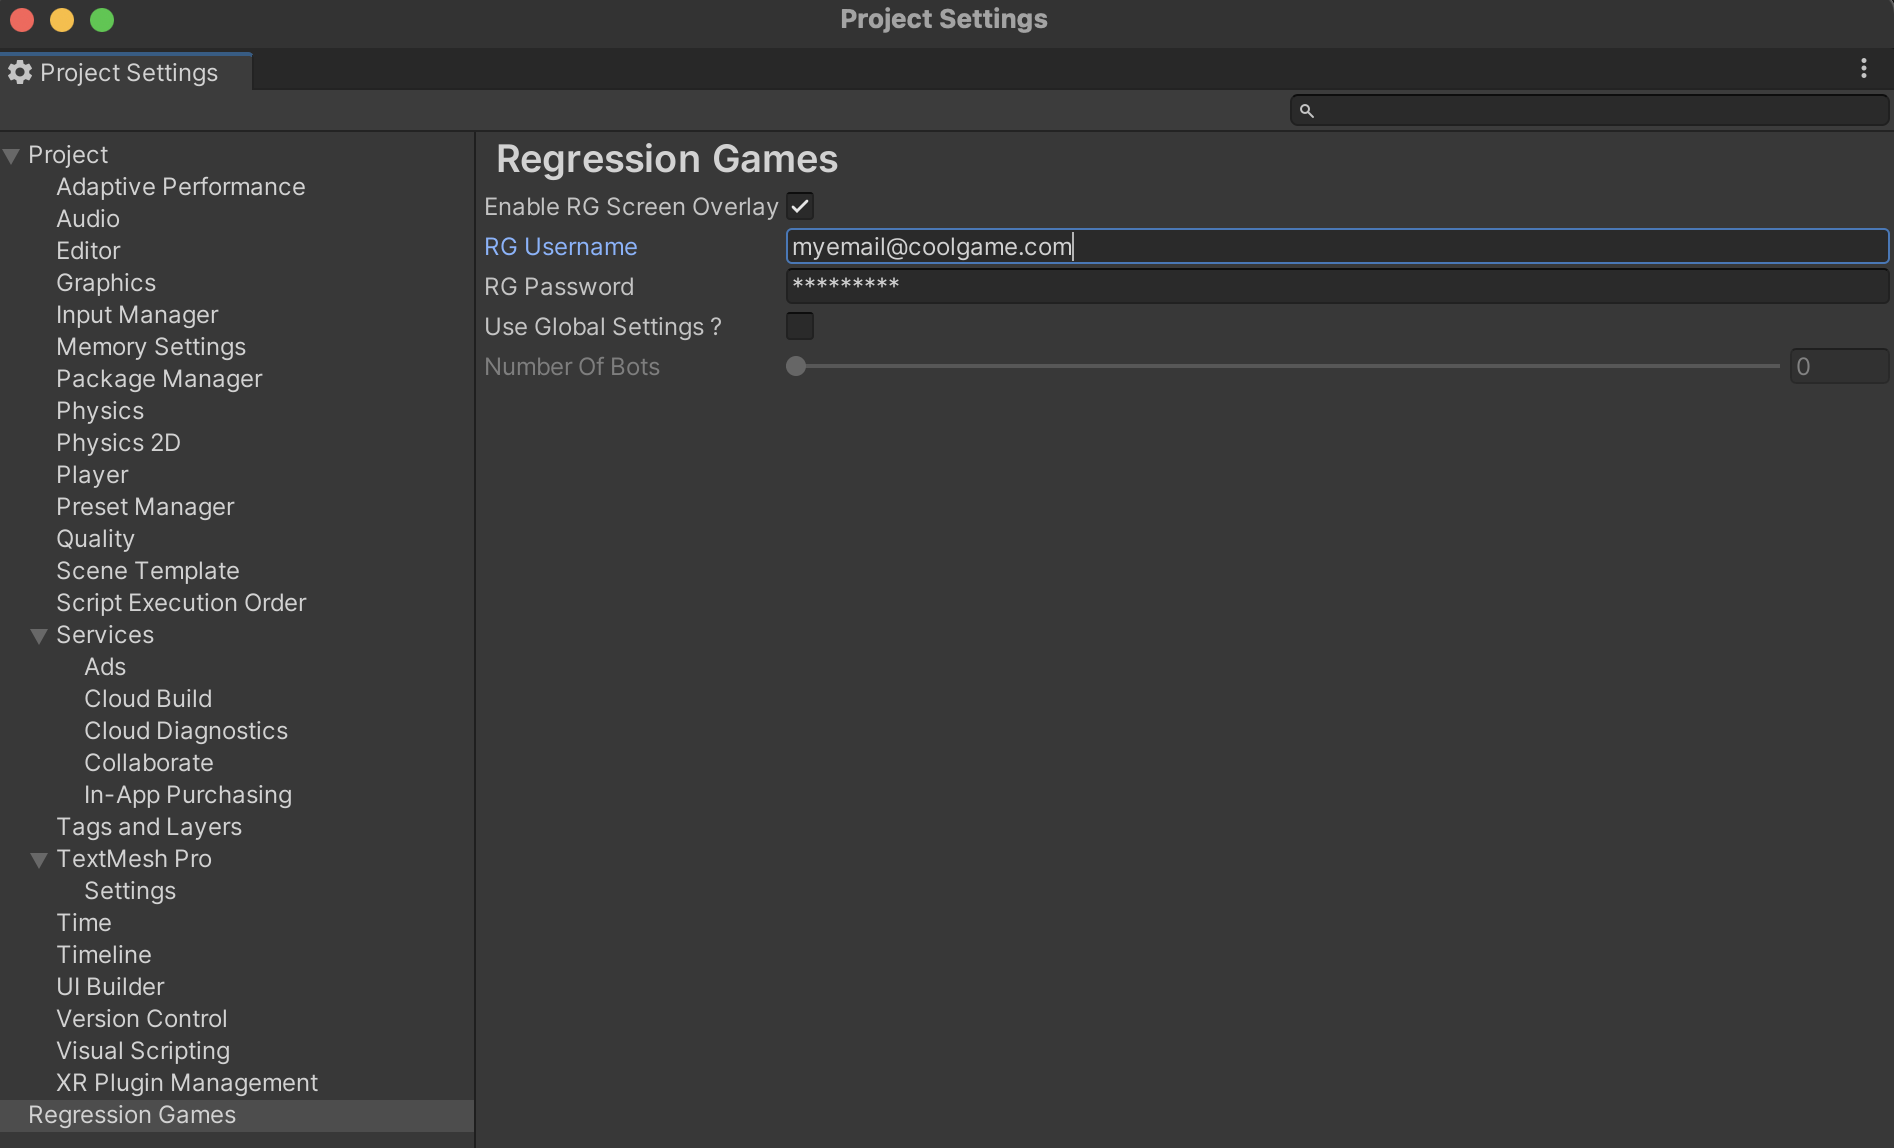
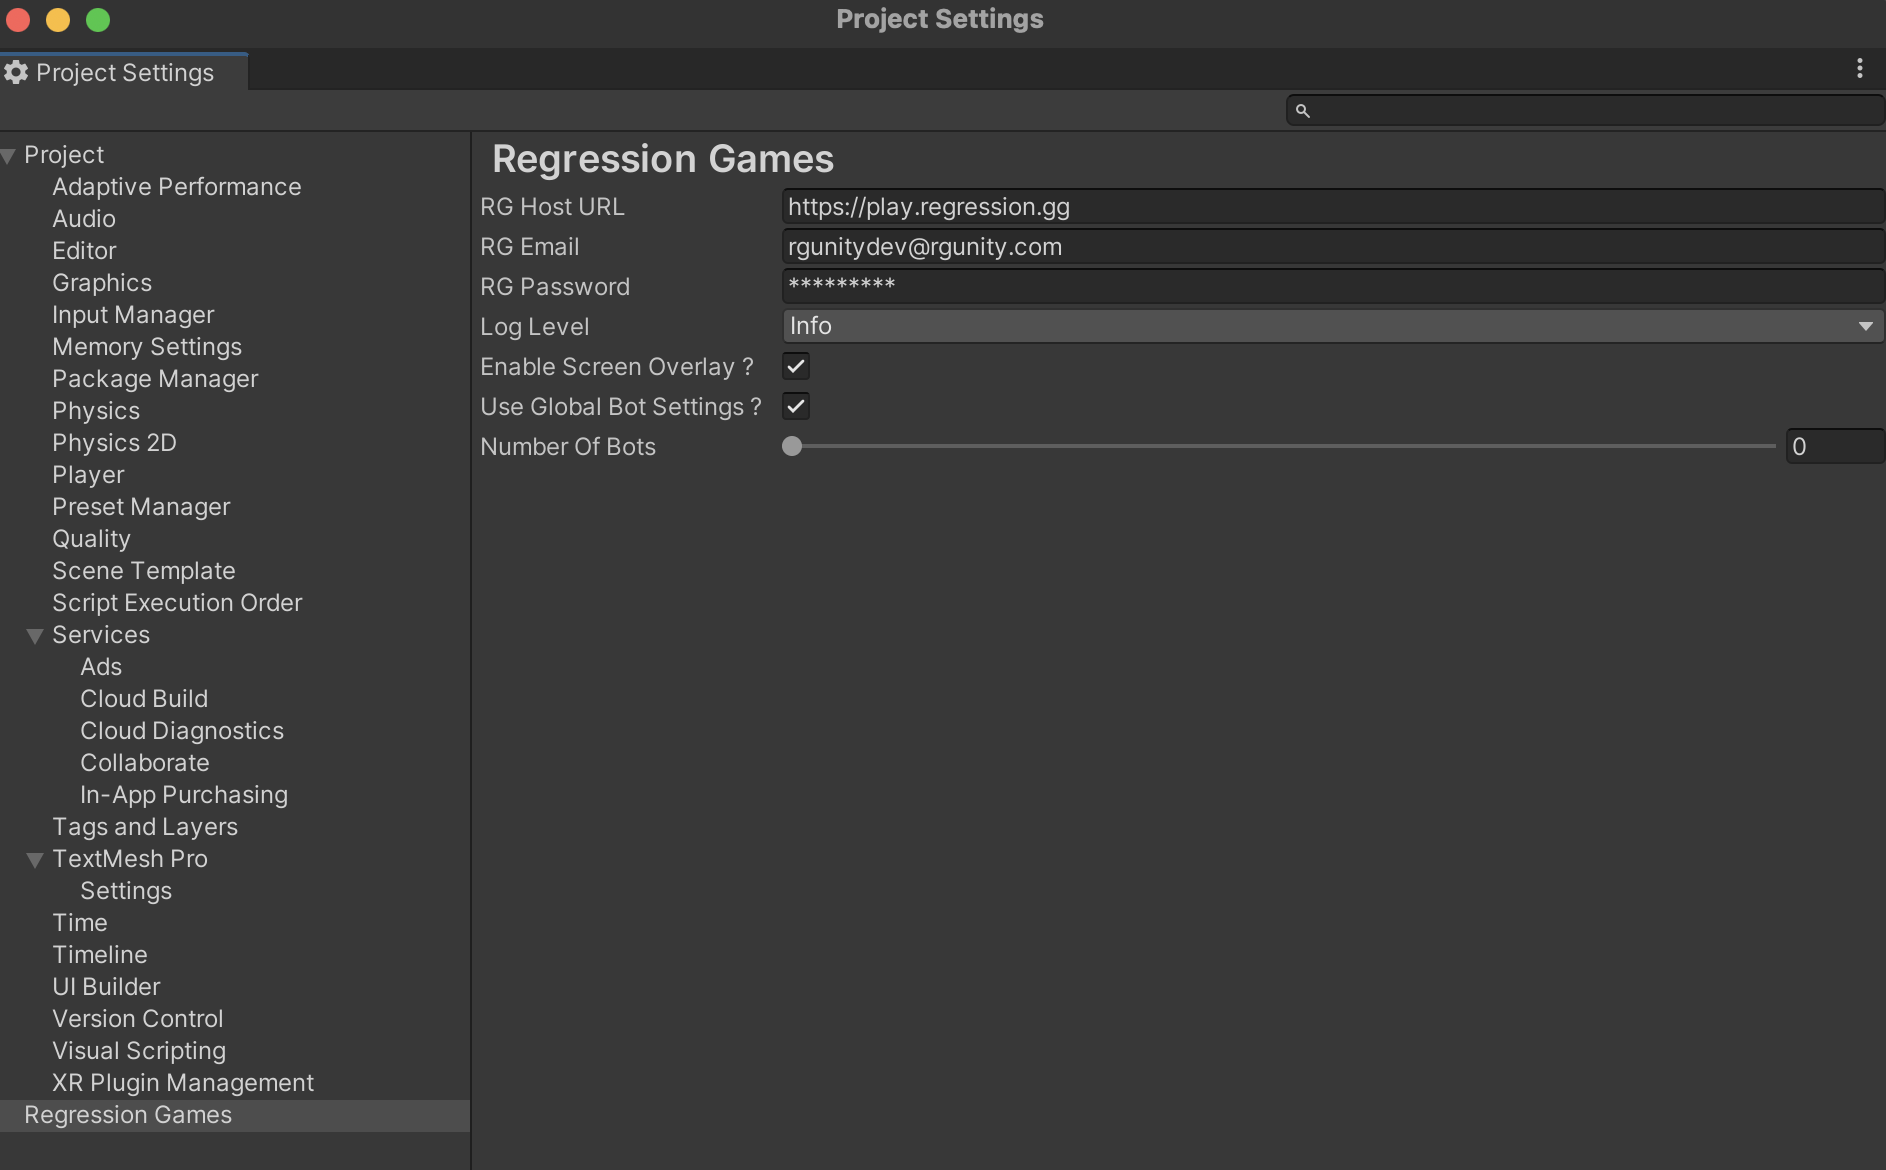
Fix suggestions from UAT

diff --git a/sidebars.js b/sidebars.js
@@ -71,6 +71,8 @@ const sidebars = {
             'studios/unity/unity-sdk/overview', 
             'studios/unity/unity-sdk/RGBotSpawnManager',
             'studios/unity/unity-sdk/BotInformation',
+            'studios/unity/unity-sdk/RGState',
+            'studios/unity/unity-sdk/RGAction',
             {
               type: 'category',
               label: 'Creating Bots in JavaScript',

diff --git a/docs/studios/unity/tutorials/first_tutorial.md b/docs/studios/unity/tutorials/first_tutorial.md
@@ -12,6 +12,12 @@ info@regression.gg
 
 :::
 
+:::info
+
+This tutorial assumes a basic understanding of Unity concepts.
+
+:::
+
 In this tutorial, we will get a simple game up and running where a character (represented by a green cube) needs to collect
 power ups (represented by blue spheres). We will cover:
 
@@ -31,12 +37,14 @@ be able to pull and live reload bots through GitHub repositories.
 You will also be prompted to enter a Minecraft username - you can put anything for this field (it will be removed
 soon as part of our new studio-centric experience).
 
-## Download the sample scene
+## Download the sample game
 
 We have a sample project that you can play around with to get started. Download that project 
 [here](https://github.com/Regression-Games/RGUnitySample/tree/starter) or clone it using GitHub. **Make sure to
 download or clone the `starter` branch**, which serves as the starting point for this tutorial. For
 the completed tutorial, see the `main` branch.
+
+Run the following commands in your terminal to start:
 
 ```
 git clone git@github.com:Regression-Games/RGUnitySample.git
@@ -44,17 +52,29 @@ cd RGUnitySample
 git checkout starter
 ```
 
-This scene features a prefab for a character and a power up type, as well as three scripts; one for controlling 
+Once this is cloned, download **Unity version 2021.3.24f1** (visit the [Unity archive](https://unity.com/releases/editor/archive
+if you can't find that version). Open the cloned project in this Unity version. 
+
+Once the project is loaded, open the scene at **Assets > Scenes > SampleScene**. This scene features a prefab 
+for a character and a power up type, as well as three scripts; one for controlling 
 the game loop, one for controlling the character, and one for controlling the power up logic.
 
 ## Import the Regression Games Unity Bots package
 
 Our package is available via GitHub [here](https://github.com/Regression-Games/RGUnityBots). Clone or download the repository, 
-and import the package by clicking **Add package from disk** in the **Package Manager** window.  
+and import the package by clicking **Add package from disk** in the **Package Manager** window (this window can be opened
+in the **Window > Package Manager** menu ). 
 - Note that this package utilizes TextMeshPro.  If you are prompted by Unity to add TextMeshPro assets to your project, please add them.
 - Note that this package installs a dependency of Newtonsoft Json (https://docs.unity3d.com/Packages/com.unity.nuget.newtonsoft-json@3.1/manual/index.html) for serializing/deserializing Json message payloads.
 
 ![Screenshot of the package imported into the project](first_bot_tutorial_images/tutorial_1_package.png)
+
+You can also download the project directly by clicking the plug button and the **Add package from git URL** option, and
+pasting in the following URL.
+
+```
+git@github.com:Regression-Games/RGUnityBots.git
+```
 
 ## Restart Unity and your IDE
 
@@ -65,6 +85,12 @@ After installing the Regression Games Unity Bots package and its dependencies in
 After importing the Regression Games package, you can access the settings pane to input your email and password.
 This will allow your project to access and start your bots. Access this setting page by going to **Edit** >
 **Project Settings** > **Regression Games**.
+
+Enter the following information:
+
+* **RG Host URL:** `https://play.regression.gg`
+* **RG Email:** `<your email>`
+* wdwa**RG Password:** `<your password>`
 
 ![Screenshot of the settings page.](first_bot_tutorial_images/tutorial_2_settings.png)
 
@@ -81,7 +107,7 @@ this into each scene - the SDK will ensure that only one instance is present.
 
 :::
 
-You can find this prefab by searching in the project file window for `RGOverlayCanvas` within the Packages filter,
+You can find this prefab by searching in the project file window for `RGOverlayCanvas` (make sure the "In Packages" filter is selected),
 or by navigating to the **Packages** > **Regression Games Unity Bots** > **Runtime** > **Prefabs** folder.
 
 ![Screenshot of the search pane for the RGOverlayCanvas.](first_bot_tutorial_images/tutorial_3_RGOverlay1.png)
@@ -89,8 +115,6 @@ or by navigating to the **Packages** > **Regression Games Unity Bots** > **Runti
 Drag this overlay onto your scene. Once you have this overlay available, you can click play to see this in action! A
 Regression Games logo will appear at the bottom of your screen. Click this button to see a dropdown for your bots. You
 likely will not have any bots yet - that's alright, we will make one soon!
-
-![Screenshot of the RGOverlayCanvas.](first_bot_tutorial_images/tutorial_4_RGOverlay2.png)
 
 :::info
 
@@ -100,27 +124,31 @@ _You only need to do this if you plan on interacting with the canvas_.
 
 :::
 
+![Screenshot of the RGOverlayCanvas.](first_bot_tutorial_images/tutorial_4_RGOverlay2.png)
 
 ## Implement the RGBotSpawnManager
 
 The RGBotSpawnManager is the primary point of configuration for how your bots are spawned into the game. This component
 provides a few methods that can be overridden to control how bots are spawned into the scene, how they are seated into
-your game logic before spawning, how they are destroyed, etc... For this particular tutorial, we will define the two
-methods that must be implemented - `GetBotPrefab()` and `GetBotSpawn()`. These two methods define what prefab should be
-used to control the character, and where the character should be spawned.
+your game logic before spawning, how they are destroyed, etc... For this particular tutorial, we need to define one
+method, [`SpawnBot()`](/studios/unity/unity-sdk/RGBotSpawnManager#public-virtual-void-seatbotbotinformation-bottospawn). 
+This method will define how our bot prefab is spawned into the scene.
 
-First, create a new file called `CharacterBotSpawnManager.cs`. It's best practice to put all Regression Games scripts
-into a common directory (we put ours in an `RGScripts/` folder).
+First, create an `RGScripts/` folder in your `Assets` folder. Then, create a file called `CharacterBotSpawnManager.cs`.
+Double click that file to open it within your editor of choice (we recommend Rider or Visual Studio). We highly recommend
+that the file is opened as part of the solution / project as a whole, so that code completion is available.
 
 Copy and paste the follow code into this file. This component allows us to drag and drop a prefab for our bots and
 a spawn point directly within our editor, and informs our SDK of these via those overridden functions.
 
-See the [full reference](#) for all the ways you can modify the spawning of bots. Sometimes you may need to add this
+See the [full reference](/studios/unity/unity-sdk/RGBotSpawnManager) for all the ways you can modify 
+the spawning of bots. Sometimes you may need to add this
 bot to a multiplayer network protocol, configure information like the character type, or define special start logic.
 This can all be done through the interface provided by `RGBotSpawnManager`.
 
 ```cs
 using RegressionGames;
+using RegressionGames.Types;
 using UnityEngine;
 
 public class CharacterBotSpawnManager : RGBotSpawnManager
@@ -134,38 +162,44 @@ public class CharacterBotSpawnManager : RGBotSpawnManager
     [Tooltip("Spawn point for RG Bots")]
     private Transform botSpawnPoint;
 
-    public override GameObject GetBotPrefab()
+    public override GameObject SpawnBot(bool lateJoin, BotInformation botInformation)
     {
-        return rgBotPrefab;
-    }
+        Debug.Log("Spawning SAMPLE BOT");
+        var bot = Instantiate(rgBotPrefab, Vector3.zero, Quaternion.identity);
+        bot.transform.position = botSpawnPoint.position;
 
-    public override Transform GetBotSpawn()
-    {
-        return botSpawnPoint;
+        // We will add more code here later to configure the bot further 
+
+        return bot;
     }
 
 }
 ```
 
-Once this component is implemented, create an empty object within the scene, and attach this component to that object. Then,
-create another empty object and position it within the scene above the platform, and drag that game object into the **Bot Spawn Point** entry. Finally, find the **Player** prefab provided by the sample project (located within **Assets** > **Prefabs**), and
-drag this into the **Rg Bot Prefab** entry. Regression Games now knows how to load and unload bots from your scene!
+Once this component is implemented, create an empty object within the scene, rename it to `RGBotSpawner` (just so we can find it later),
+and attach this `CharacterBotSpawnManager` component to that object. Then, create another empty object, rename it to `CharacterSpawn`,
+position it within the scene above the platform, and drag that game object into the **Bot Spawn Point** entry of the RGBotSpawner's
+`CharacterBotSpawnManager` component. Finally, find the **Player** prefab provided by the sample project (located within **Assets** > **Prefabs**), and drag this into the **Rg Bot Prefab** entry. Regression Games now knows how to load and unload bots from your scene!
+Make sure to save the scene.
 
 ![Screenshot of the RGOverlayCanvas.](first_bot_tutorial_images/tutorial_5_spawner.png)
 
 ## Add state information to relevant GameObjects
 
-The next step is to indicate what state in your scene is available to bots. This state is then used by bots to
-make decisions on what actions to take. State is relayed to bots by attaching `RGState` components to any game
-object or prefab that you want your bots to know about. 
+The next step is to indicate what state in your scene is available to bots. This state used by bots to
+make decisions on what actions to take. State is relayed to bots by attaching [`RGState`](/studios/unity/unity-sdk/RGState)
+components to any game object or prefab that you want your bots to know about. 
 
-The base implementation of `RGState` provided by Regression Games relays default information such as a `type`, `position`,
-and a unique identifier. In this sample scene, we will use this default state information, but of course you may need
-to provide additional state, such as a players team, health, if a door is open, etc...
+The base implementation of [`RGState`](/studios/unity/unity-sdk/RGState) provided by Regression Games relays default 
+information such as a `type`, `position`, and a unique identifier. In this sample scene, we will use this default 
+state information, but of course you may need to provide additional state, such as a players team, health, if a door is open, etc...
+You can do this by checking out the docs and examples for [`RGState.GetState()`](/studios/unity/unity-sdk/RGState#public-virtual-dictionarystring-object-getstate).
 
-In this scene, we open the `Player` and `PowerUp` prefabs, and add a component, searching for "RG State". Once that
-component is added to the prefab, change the `Object Type` to `PowerUp` for the PowerUp, and change it to `Player`
-for the player. Make sure to save the changes you make to these existing prefabs by clicking **Save**!
+In this scene, open the `Player` prefab located in the **Assets > Prefabs** folder by double clicking
+the prefab, click **Add Component**, and then add the `RGState` component by searching for "RG State" in the component
+search modal that pops up. Once that component is added to the prefab, change the `Object Type` to `Player`. 
+Make sure to save the changes you make to these existing prefabs by clicking **Save**! Repeat this process for
+the `PowerUp` prefab, but change the `Object Type` to `PowerUp`.
 
 ![Screenshot of the prefab with a RG State script.](first_bot_tutorial_images/tutorial_6_prefab.png)
 
@@ -174,7 +208,7 @@ That's all you need to do for your bot to see the state of the game!
 ## Implement actions your bot can take
 
 Finally, we need to provide an interface that allows bots to control these characters in your game. This is
-done using the RGAction interface. 
+done using the [`RGAction`](/studios/unity/unity-sdk/RGAction) interface. 
 
 ```cs
 /**
@@ -200,9 +234,13 @@ public abstract class RGAction : MonoBehaviour
 }
 ```
 
-Create a new file called `RGPlayerMoveAction.cs`, and copy the following code into that file.
+Create a new file called `RGPlayerMoveAction.cs` within the `RGScripts/` folder, and copy the following code into that file.
 
 ```cs
+using System.Collections.Generic;
+using RegressionGames.RGBotConfigs;
+using UnityEngine;
+
 public class RGPlayerMoveAction : RGAction
 {
     
@@ -247,20 +285,20 @@ public class RGPlayerMoveAction : RGAction
 }
 ```
 
-You can think of an `RGAction` as a task that you bot should run. In this case, we define a move task, which
-tells the bot to move to a location until they are in range of the target location. Because `RGAction` is a
-MonoBehaviour, `Awake()` and `Update()` methods are implemented that run the logic for this type of action.
+You can think of [`RGAction`](/studios/unity/unity-sdk/RGAction) as a task that your bot can run. In this case, 
+we define a move action, which tells the bot to move to a location until they are in range of the target location. 
+Because [`RGAction`](/studios/unity/unity-sdk/RGAction) is a MonoBehaviour, `Awake()` and `Update()` methods are 
+implemented that run the logic for this type of action. An action can triggered by a Regression Games bot, and the
+action script can execute the logic to perform that action.
 
-Name the action as `"MoveToPosition"`, implemented within `GetActionName()`, which is the identifier that will be used
-when writing the bot. Next, implement `StartAction()`, which takes in the arguments passed by the bot to perform
-this action. In this specific case, the bot passes an x, y, and z value, which is the position of the target that the
+`GetActionName()` defines this action with a name of `"MoveToPosition"`, which is the identifier that will be used
+when writing the bot. `StartAction()` takes in the arguments passed by the bot that define how the action will run,
+and stores this information within the component. These arguments are not used to execute logic right away, but rather
+allows the `Update()` function to run the logic over time (as most actions will need more than one tick to run).
+In this specific case, the bot passes an x, y, and z value, which is the position of the target that the
 bot should approach.
 
-The `Update()` function implements the logic to move towards that position. If the target position is
-set, and the bot is not within a specific range, then propel the RigidBody in that direction. If the target is
-reached, then reset the target to nothing.
-
-Add this new `RGPlayerMoveAction` component onto the Player prefab. 
+**Add this new `RGPlayerMoveAction` component onto the Player prefab,** and make sure to click save.
 
 Finally, search for and add the `RGAgent` script to the Player prefab - this tells Regression Games to find all `RGAction`s on this 
 prefab and register them with the agent, and informs Regression Games that this prefab will act as an agent.
@@ -270,7 +308,8 @@ prefab and register them with the agent, and informs Regression Games that this 
 ## Activate and start Regression Games in your game loop
 
 The last Unity change needed is to start Regression Games when your game starts. Open up the 
-`Assets/Prefabs/Game Scripts/GameLoop.cs` file, and copy these contents into the `GameLoop` class.
+`Assets/Prefabs/Game Scripts/GameLoop.cs` file, and copy these contents into the `GameLoop` class. You
+will also need to add `using RegressionGames;` to the top of the file.
 
 ```cs
 ...
@@ -312,11 +351,11 @@ the scene and perform on the behalf of a player.
 
 Create a new bot by navigating to the [Bot Manager page](https://play.regression.gg/bots/create-bot) on
 Regression Games and clicking **Create Bot**. Select the **Unity** option, which will open a GitHub
-page to copy our Unity template. Create the GitHub repo (note that sometimes GitHub seems to break at this 
-point, please try again if that happens), and then on the Regression Games site, select
-that repo (click the refresh button in the panel if you can't see your repository, or click the link
-to connect the repository if it is private), the main branch, and the root directory. Give your bot a name, 
-select the Unity bot type, and then click save. 
+page to copy our Unity template. Create the GitHub repo with a name like "RGSampleBot" 
+(note that sometimes GitHub seems to break at this  point, please try again if that happens), and 
+then back on the Regression Games site, select that repo (click the refresh button in the panel on the right if 
+you can't see your repository, or click the link to connect the repository if it is private), the main branch, 
+and the root directory. Give your bot a name, select the Unity bot type, and then click **Create Bot**. 
 
 ![Screenshot of the bot creation page.](first_bot_tutorial_images/create_bot_1.png)
 ![Screenshot of the bot github page.](first_bot_tutorial_images/create_bot_2.png)
@@ -324,7 +363,7 @@ select the Unity bot type, and then click save.
 
 
 Once the bot is created, clone the repository and open the `index.js` file.
-Replace the contents with the following:
+Replace the contents with the following, and commit + push your changes to git.
 
 ```js
 export function configureBot(rg) {
@@ -344,9 +383,13 @@ export async function processTick(rg) {
 ```
 
 The bot will find all entities of the `PowerUp` type, and then queue the action `MoveToPosition` to
-move towards that location. Push your changes, start up the scene, and then select and start the bot
+move towards that location. Push your changes, start up the scene in Unity, and then select and start the bot
 from the Regression Games overlay (click the button in the bottom right of the screen).
 
-After a few seconds, you will see your bot spawn and collect the power up!
+After a few seconds, you will see your bot spawn and collect the power up! If something is not working,
+send us a message on Slack or Discord and we will respond almost immediately!
 
 ![Video of the bot performing.](first_bot_tutorial_images/tutorial_8_demo.gif)
+
+## Next steps
+
